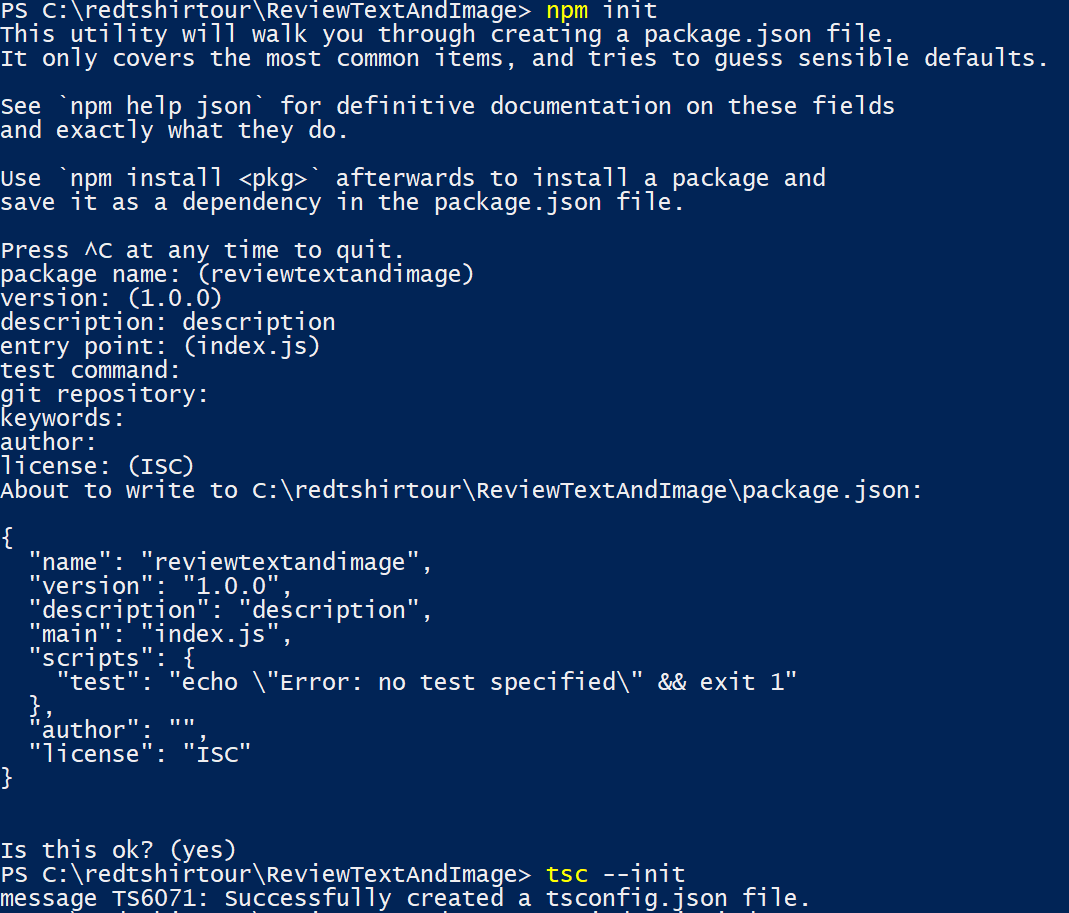
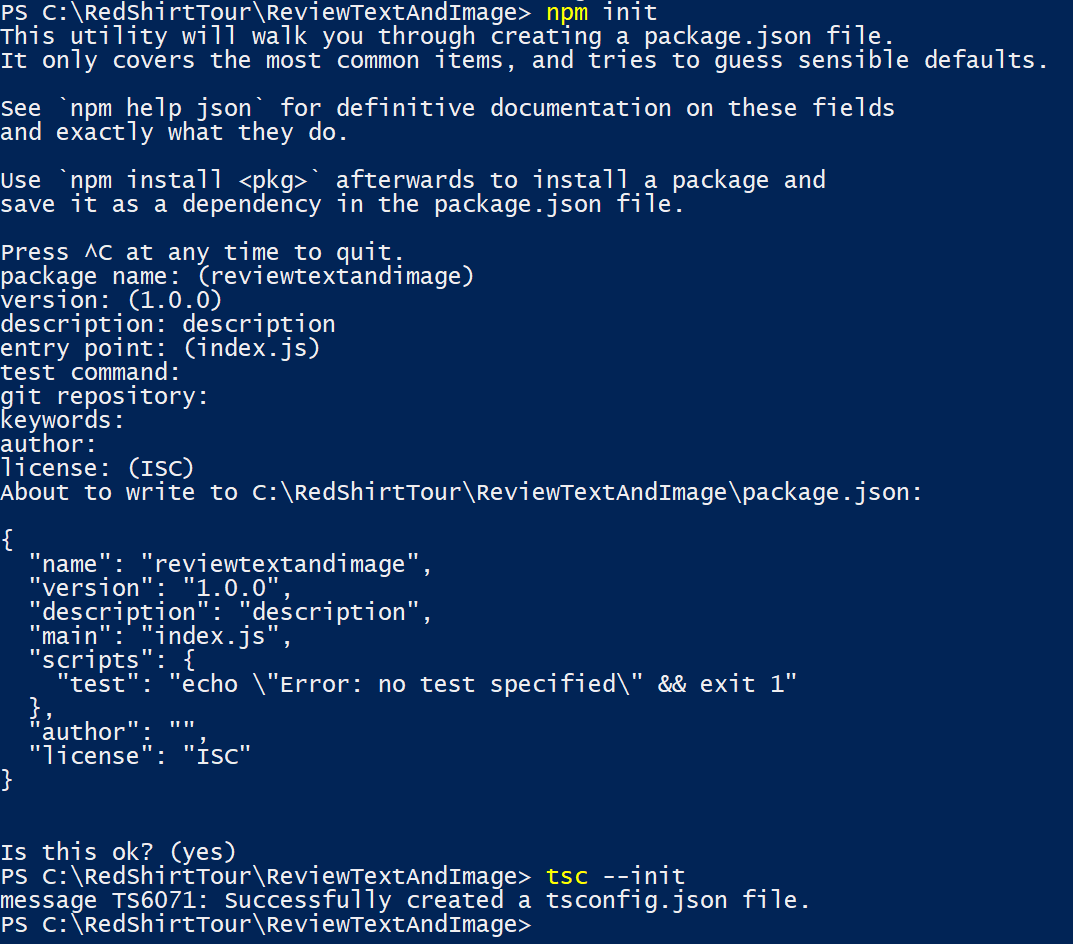
Update README.md of lab2

diff --git a/doc/02 - Visual Studio/VS Code and TypeScript/README.md b/doc/02 - Visual Studio/VS Code and TypeScript/README.md
@@ -63,8 +63,8 @@ In this exercise, you will create an Azure Function App using Azure Functions CL
 1. Create a new folder and initialize an Azure Function by doing the following from a command prompt:
 
 	```
-	mkdir redtshirtour
-	cd redtshirtour
+	mkdir RedShirtTour
+	cd RedShirtTour
 	func init
 	```
 
